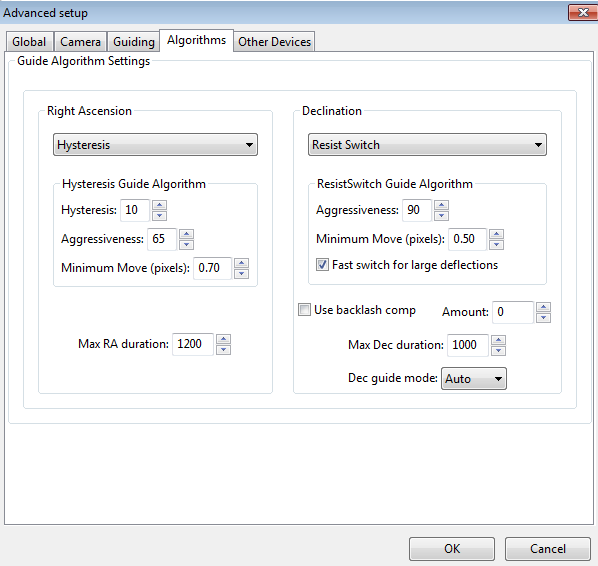
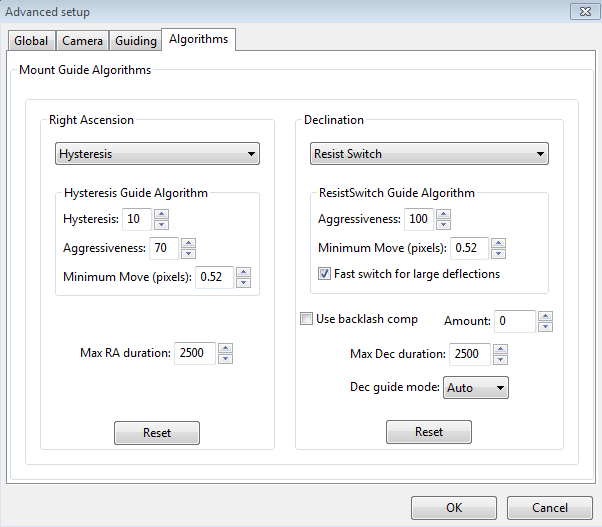
Help file updates for 2.6.2 release

diff --git a/help/Advanced_settings.htm b/help/Advanced_settings.htm
@@ -239,9 +239,9 @@ the PHD2/guiding icon on the main page, which will force a re-calibration.</li><
 Declination Compensation' - if PHD2 can get pointing information from
 the mount via an ASCOM connection ('Mount' or 'Aux'), it will
 automatically adjust the RA guide rate based on the current declination.
-&nbsp;This box should normally be left checked except in very unusual
+&nbsp;This box should normally be left checked except in&nbsp;unusual
 cases. &nbsp;For example, SiTech mount controllers evidently apply a
-compensation automatically, in which case PHD2 should not.</li></ul>Shared Guiding Parameters<ul><li>'<a name="Fast_Re-center"></a>Fast
+compensation automatically, in which case the box should be left un-checked..</li></ul>Shared Guiding Parameters<ul><li>'<a name="Fast_Re-center"></a>Fast
 re-center after calibration or dither' - during calibration or
 dithering, the mount may be moved a significant distance from the
 initial "lock" position. &nbsp;If you click this checkbox, PHD2 will
@@ -312,7 +312,7 @@ made in the calculator will be reflected there as well. &nbsp;However,
 this will not be done if you click on 'Cancel' in the calculator
 dialog. &nbsp;Note that PHD2 never changes the guide speed setting in
 your mount regardless of what may be entered in the 'Guide Speed' field.<h3><a name="Algorithms_Tab"></a>Algorithms Tab</h3>
-<span style="font-size: 10pt; font-family: Arial;"></span><img style="width: 598px; height: 566px;" alt="" src="Advanced_algorithms.png"><br><br>
+<span style="font-size: 10pt; font-family: Arial;"></span><img style="width: 602px; height: 527px;" alt="" src="Advanced_algorithms.png"><br><br>
 The algorithms tab can be used to select the guiding algorithms you
 want to use and to fine-tune the parameters associated with them. &nbsp;The parameters displayed will change significantly if
 you
@@ -365,7 +365,63 @@ will leave the star positoned off-target for an extended period of
 time. So you'll probably want to use conservative parameters for
 aggressiveness if you are disallowing direction reversals.
 &nbsp;Finally, a choice of 'off'' here disables declination guiding
-altogether.</li></ul><br><h3><a name="Other_Devices_Tab"></a>Other Devices Tab</h3><span style="font-size: 10pt; font-family: Arial;"></span><img style="width: 591px; height: 451px;" alt="" src="Advanced_other.png"><br><br>If
+altogether.</li><li>'Reset'
+- resets the guiding parameters for the selected RA or Dec algorithm to
+their default values. &nbsp;Min-move settings will be set using the
+same algorithm employed in the new-profile-wizard. &nbsp;If you
+previously used the Guiding Assistant to adjust the min-move settings,
+you should probably repeat that procedure.</li></ul><h4><a name="Declination-Uni-directional_guiding"></a>Uni-directional Declination Guiding</h4>As
+discussed elsewhere, some mounts have too much declination backlash to
+support guiding in both&nbsp;north and south directions. &nbsp;This
+situation can be mitigated by configuring PHD2 to guide in only one of
+the directions, what we call uni-directional Dec guiding. &nbsp;This
+can be
+a manageable situation because declination guiding is only intended to
+correct for slow drift - errors caused by polar misalignment and to a
+lesser extent, mechanical flexure. &nbsp;Ironically, you might want to
+de-tune your polar alignment a bit to make it easier to see the drift
+direction and to reduce the likelihood that seeing will interfere with
+uni-directional guiding. &nbsp;Remember that polar mis-alignment,
+within
+reason, doesn't usually degrade guiding performance. &nbsp;Instead, it
+may introduce field rotation if you're imaging near the pole and have a
+large camera sensor. &nbsp;A good first step would be to polar align to
+within a few arc-minutes of the pole before setting up for
+uni-directional
+guiding. &nbsp;You can always go back later and check for field
+rotation. &nbsp;Just take a sample image with your main camera at the
+highest declination you would expect for imaging - perhaps 70 degrees
+north. &nbsp;If you don't see field rotation there, you can leave the
+polar alignment where it is. &nbsp;With any amount of polar
+mis-alignment, the direction of&nbsp; Dec corrections will change at
+some point in the sky. &nbsp;(Technically, it will reverse directions
+at two points in the sky but one of those is usually below the
+horizon.) &nbsp;The sky location for the reversal depends entirely on
+how you are mis-aligned on the pole - the relative amounts of azimuth
+and altitude alignment errors. &nbsp;You may even have a situation
+where
+the reversal point is near enough to the horizon that you don't
+encounter it during normal imaging.<br><br>To set up for uni-directional guiding, you can follow these steps:<br><ol><li>Move
+to a field with a good guide star and open the Guiding Graph window.
+&nbsp;Disable Dec guiding entirely by setting the Dec guide mode to
+'off', then start guiding. &nbsp;Now watch the graph until you can see
+a clear trend in the way the guide star is drifting either north or
+south. &nbsp;Once you see this, reset the Dec guide mode to issue
+corrections in the right direction. &nbsp;For example, if the star is
+drifting north, set the Guide mode to 'south.'</li><li>Try using the
+'LowPass' or 'LowPass2' guiding algorithms for declination and start
+with a fairly low aggressiveness factor, say 50%. &nbsp;If the
+aggressiveness is too high, the correction may push the star to the
+"wrong" side of the lock position, where it will remain until the slow
+drift rate moves it back. &nbsp;It's better to issue a few consecutive
+small corrections rather than one larger one in order to minimze this
+type of over-shoot.</li><li>Watch the guiding graph to be sure the
+corrections are being issued in the right direction and the star isn't
+just steadily drifting&nbsp;off-target. &nbsp;Over the course of
+minutes or hours, you may notice the amount of drift is decreasing.
+&nbsp;This means you are slowly approaching the point of
+declination reversal and you should be prepared to change the Dec guide
+mode accordingly.</li><li>If you are dithering, set the dithering parameters to "RA-only" to avoid disrupting the Dec guiding.</li></ol><h3><a name="Other_Devices_Tab"></a>Other Devices Tab</h3><span style="font-size: 10pt; font-family: Arial;"></span><img style="width: 591px; height: 451px;" alt="" src="Advanced_other.png"><br><br>If
 you are using either an adaptive optics or rotator device, the "Other
 Devices" tab will be shown. &nbsp;The upper section deals with the AO
 device if one is being used. &nbsp;You

diff --git a/help/Darks_BadPixel_Maps.htm b/help/Darks_BadPixel_Maps.htm
@@ -9,7 +9,7 @@ there are too many of these defects, you may have trouble identifying
 and selecting a good guide star - trying to calibrate on a hot pixel is
 a common problem for beginners. &nbsp;Even after guiding has begun, a
 spurious hot pixel close to the guide star can disrupt the calculations
-needed for smooth guiding and may case the software to "jump" between
+needed for smooth guiding and may cause the software to "jump" between
 the real star and the hot pixel. &nbsp;These sorts of problems can be
 mitigated by using either of two approaches in PHD2: dark frames and
 bad pixel maps. &nbsp;All functions related to dark frames and bad-pixel maps are located under the top-level 'Darks' menu.<br><br>&nbsp;&nbsp;<h3><a name="Dark_Frames"></a>Dark Frames</h3>PHD2 will
@@ -151,18 +151,21 @@ settings, you may create so many bad pixel areas that they interfere
 with detection of usable guide stars. &nbsp;It's easy to make
 adjustments with the sliders &nbsp;- just change the slider settings,
 click on 'Generate' again, and look at the results in the main PHD2
-window.<br><br>You may find that this statistical approach still leaves
-a few hot pixels that you'd&nbsp;like to eliminate. &nbsp; You can do
-this quickly and easily by manually adding the bad pixels to the map.
-&nbsp;Just use the main PHD2 window to take a guide exposure, then
-click on the hot pixel you want to remove. &nbsp;PHD2 will highlight
-that area with the green tracking box, at which time you can click on
-the 'Add Bad Pixel' button in the dialog box shown above. &nbsp;This
-automatically updates the map with the pixel location you just identified
-and immediately reloads the map, so you should see the result in the
-next guide exposure you take. &nbsp;You can continue with this process
-until you are satisfied with the results. &nbsp;Remember, you don't
-need "perfect", just "good enough." &nbsp;<br><br>Once
+window.<br><br>You
+may find&nbsp; this&nbsp;approach still leaves some hot pixels that you'd&nbsp;like to eliminate. &nbsp; Since the
+default approach relies on statistics and needs to apply to a wide
+range of cameras, it isn't a "fire-and-forget" operation - you will
+often need to fine-tune it using the steps below.<br><br><h4>Step-by-Step Guide to Refining a Bad-pixel Map</h4>The following steps are recommended for refining a bad-pixel map to control pixel-level artifacts in your camera:<br><ol><li>Cover the guide scope and start looping 5-second exposures</li><li>Open
+the Refine Bad-pixel Map window (Menu/Darks/Bad-pixel Map), then drag
+it to the side of your screen so you can see both the BPM and guiding
+windows</li><li>Adjust the gamma slider in the main window until you
+can see the hot pixels - this may require a brighter image than you are
+accustomed to seeing</li><li>Select the option "Show defect pixels."
+&nbsp;With the box checked, red dots will appear for any hot pixels
+that are already known. &nbsp;</li><li>Slowly drag the hot-pixels
+aggressiveness slider left and right until most of the hot pixels are
+covered by a red dot, with a much smaller number (or even zero) hot
+pixels not covered. &nbsp;Click the 'Generate' button</li><li>Now pick up the remaining hot pixels by manually adding them to the bad-pixel map</li></ol><ul style="margin-left: 40px;"><li>Un-check the "Show defect pixels" checkbox</li><li>Select a hot pixel in the guiding window by clicking on it</li><li>Click on 'Add bad pixel' in the BPM window</li><li>Repeat as necessary until you satisfied most of the bad pixels have been handled</li><li>Close the BPM window - DO NOT click 'Generate' again because that will undo the manual pixel selection</li></ul>&nbsp;&nbsp;&nbsp; <br>Once
 your bad-pixel
 map has been built, you control its use by the 'Use Bad-pixel Map'
 &nbsp;item under the 'Darks' menu. &nbsp;This setting is retained
@@ -188,9 +191,8 @@ operating system.<br><br>Like dark libraries, bad-pixel maps are&nbsp;associated
 &nbsp;PHD2 will check to be sure that the bad-pixel map matches the camera
 you are currently using. &nbsp;If it does not, you will see an alert message telling you the bad-pixel map can't be
 used and must be rebuilt. &nbsp;This can happen when you've changed cameras
-inside an existing equipment profile, something you shouldn't do unless
-you have upgraded your guide camera and have no plan to revert to use
-of the old camera. &nbsp;<br><br><h3><a name="reuse_dark_library"></a>Reusing Dark Frames and Bad-pixel Maps</h3>If
+or binning factors inside an existing equipment profile, something you shouldn't do unless
+you have no need for the old settings. &nbsp;<br><br><h3><a name="reuse_dark_library"></a>Reusing Dark Frames and Bad-pixel Maps</h3>If
 you're using the same camera in multiple profiles, you may want to
 re-use the dark libraries or bad-pixel maps you built for that camera.
 &nbsp;This can be accomplished by importing the camera-related data

diff --git a/help/Trouble_shooting.htm b/help/Trouble_shooting.htm
@@ -178,7 +178,51 @@ causes the noisy/all-white/all-black display results. &nbsp;You may
 also encounter display problems if the guider is not well-focused.
 &nbsp;Focusing the guider can be a tedious and frustrating experience
 but it's critical to getting good guiding results. &nbsp;A good
-technique is to start with a bright <span style="font-style: italic;">but unsaturated</span> star and try to reach focus with that. &nbsp;Then move to successively fainter stars to fine-tune the focus position. &nbsp; <h3><a name="Problems-_Camera_Timeouts"></a>Camera Timeout and Download Problems</h3>In
+technique is to start with a bright <span style="font-style: italic;">but unsaturated</span> star and try to reach focus with that. &nbsp;Then move to successively fainter stars to fine-tune the focus position. &nbsp;<br><h3><a name="Problems-Hot_Pixels"></a>Hot-pixel Problems</h3>Even
+with some high-quality guide cameras, you may encounter problems where
+clumps of hot pixels are mistaken by PHD2 as guide stars. &nbsp;This
+can be especially annoying if you're using automation tools and&nbsp;
+the 'auto-select' guide star selection is mistakenly choosing hot pixels. &nbsp;For many cameras, a
+simple dark frame will suffice for reducing or eliminating hot-pixel
+problems, and dark frames should always be used as a starting-point.
+&nbsp;But for other cameras, you will need to build a bad-pixel map and
+update it as necessary when you see changes in the locations and sizes
+of defective pixels. &nbsp;Camera sensors change over time and may
+react to changing temperatures, so bad-pixel map maintenance is a small
+task you should be able to perform. &nbsp;Step-by-step instructions can
+be found in the&nbsp;<a href="Darks_BadPixel_Maps.htm#Bad-pixel_Maps">Bad-pixel map</a>
+chapter of this document. &nbsp;These problems are different from
+transient hot pixels, which can be caused by cosmic ray strikes on the
+sensor. &nbsp;Although cosmic ray hits can disrupt guiding, there's
+really nothing you can do about them.<br><br><h3><a name="Problems-restore_guiding_parameters"></a>Restoring a Working Baseline</h3>Despite&nbsp;advice to the contrary, you may have made rapid, uninformed
+changes to your guiding parameters only to find the performance stayed
+the same or even got worse. &nbsp;Before proceeding, you should restore the
+settings to their default values. &nbsp;If you used the
+new-profile-wizard to build your profiles, the parameters will have
+been set based on the specifics of your configuration, and they are
+likely to be pretty close. &nbsp;If you encounter&nbsp;significant
+guiding problems using those settings, you are probably having
+issues with the mount or other hardware. Blindly changing guiding
+parameters almost never solves these problems and quite often makes
+things worse. &nbsp;You have several options for restoring the settings
+to their default values: <br><ol><li>On the 'Algorithm' tab of the
+Advanced Dialog, you can individually reset parameters by looking at
+the tool-tip for each field. &nbsp;Hover your mouse cursor over the
+field and the default value will be displayed. &nbsp;Note that this is
+not accurate for the min-move settings, which depend on your image
+scale. &nbsp;This approach is best when you want to restore only a few
+settings.</li><li>Click the 'reset' buttons on the 'Algorithm' tab for
+the selected RA and Dec guide algorithms. &nbsp;This is the recommended
+approach for resetting all the guiding parameters. &nbsp;The min-move
+settings will be reset to the values originally calculated by the
+new-profile-wizard. &nbsp;If you subsequently adjusted those settings
+by running the Guiding Assistant, you should repeat that process.</li><li>Run the new-profile-wizard, accessed by clicking on the 'Manage Profiles' button in the 'Connection' dialog.
+&nbsp;Use the same camera and mount choices you already have and give
+the profile a new name. &nbsp;If you want to re-use the dark library
+and bad-pixel map from the old profile, connect to the new profile and
+use the 'Darks' menu to import those files from the old profile.
+&nbsp;Once you are satisfied with the new profile settings, you can
+delete the old one.</li></ol> <h3><a name="Problems-_Camera_Timeouts"></a>Camera Timeout and Download Problems</h3>In
 some cases, you may experience problems where guider images aren't
 downloaded or displayed. &nbsp;In extreme cases, this may even cause
 <span style="font-style: italic;">PHD2</span> or other camera-related applications to be non-responsive (i.e. to

diff --git a/help/Basic_use.htm b/help/Basic_use.htm
@@ -153,7 +153,38 @@ last entry in the list of 'Aux mount' connections is labeled "Ask for
 coordinates." &nbsp;This can provide a rudimentary aux-mount facility
 if you can't use an ASCOM or INDI connection to your mount. &nbsp;If
 you need to pursue this option, you can read about the details in
-the&nbsp;<a href="Tools.htm#Ask_for_coordinates_aux_mount">Tools</a> section. <h4><a name="AO_Selection"></a>Adaptive Optics and <a name="Rotator_Selection"></a>Rotator Selections</h4>
+the&nbsp;<a href="Tools.htm#Ask_for_coordinates_aux_mount">Tools</a> section.<br><h4><a name="ASCOM_Benefits"></a>Benefits of Using ASCOM (or INDI) connections</h4>If
+you're running on a Windows platform, you'll probably be better off
+using an ASCOM connection for guiding your mount. &nbsp;On other
+operating systems, your best choice is likely to be an INDI connection
+if one is available. &nbsp;This advice may be contrary to some
+old-school experience or folklore on the Web and probably isn't what
+you'll hear from the manufacturer of the guide camera. &nbsp;But the
+benefits of doing so with PHD2 are substantial, and you should use this
+alternative unless you have&nbsp;specific and credible information
+against it. &nbsp;Here are some of the primary benefits:<br><ol><li>A drastic reduction in the number of re-calibrations you'll need to perform. &nbsp;Changing targets will <span style="font-weight: bold;">not</span>
+require another calibration&nbsp;because PHD2 can know where the scope
+is pointing and automatically make adjustments to the guider
+calibration. &nbsp;Most users get a good calibration and then re-use
+it&nbsp;until they make hardware changes of some kind.</li><li>Automatic adjustment for meridian flips - no need to remember to manually flip the calibration data.</li><li>Automatic adjustment of RA calibration to handle targets in different parts of the sky (declination compensation)</li><li>Elimination
+of the ST-4 guide cable as a point of failure - this is a surprisingly
+common problem because the cables&nbsp;can be damaged or confused with
+similar-looking cables (e.g. telephone cables)</li><li>Elimination of a moving cable that can snag, drag, or bind as the scope is moved around.</li><li>Improved
+ability for PHD2 to sanity-check calibration results and warn of
+possible problems before you waste hours of imaging time.</li><li>Better diagnostic and trouble-shooting information, which is particularly helpful if you need to ask for assistance</li><li>Availability of scope-slewing options during drift alignment which can further speed the process of polar alignment</li></ol>If
+you have an older mount built before 2005 or thereabouts, it may not
+have firmware-level support for ASCOM pulse guiding. &nbsp;In those
+cases, you may get better guiding results using the ST-4 guiding
+interface. &nbsp;If you're in doubt, check the documentation for your
+mount or ask on one of the forums about pulse-guide support. &nbsp;Even
+then, you can use ASCOM for the PHD2 "aux-mount" connection and get
+many of the benefits listed above. &nbsp;A common misconception,
+frequently seen on Web forums, is that ST-4 guiding is hardware-based
+and thus more accurate or responsive. &nbsp;For any of the modern
+mounts you're likely to encounter, this is no longer true - there will
+always be software running at each end of the cable, just like ASCOM
+guiding. &nbsp;The bottom line is this: if you have an ASCOM or Indi
+driver available for your mount, you should probably use it. <h4><a name="AO_Selection"></a>Adaptive Optics and <a name="Rotator_Selection"></a>Rotator Selections</h4>
 With
 <span style="font-style: italic;">PHD2</span>, you
 now have the option of controlling the Starlight Xpress
@@ -230,7 +261,11 @@ wizard...'. &nbsp;If you are changing cameras and want to keep the dark
 libraries and bad-pixel maps associated with the old camera, you should
 create a separate profile for the new camera. &nbsp;When a camera
 selection is changed in an existing profile, the previously built dark
-library and bad-pixel map data will no longer be usable.<br>
+library and bad-pixel map data will no longer be usable. &nbsp; That
+also applies to using the same camera with different binning values.
+Setups using different binning factors should be kept in separate
+profiles because
+the dark library and bad-pixel maps depend on the binning factor.<br>
 <br>
 If
 you already have a suitable default equipment profile and you simply

diff --git a/help/MainScreen.htm b/help/MainScreen.htm
@@ -16,7 +16,7 @@ available in the field of view</li>
 display tools to see how things are going</li>
 <li>Stop and resume guiding as necessary</li>
 </ol>
-<img style="width: 1172px; height: 718px;" alt="" src="Main_Screen.png"><br>
+<img style="width: 670px; height: 522px;" alt="" src="Main_Screen.png"><br>
 <p>The majority of the screen is taken up by the display of the star
 field from your guide camera. &nbsp;The display is automatically
 adjusted for size, brightness, and contrast so you can have a clear
